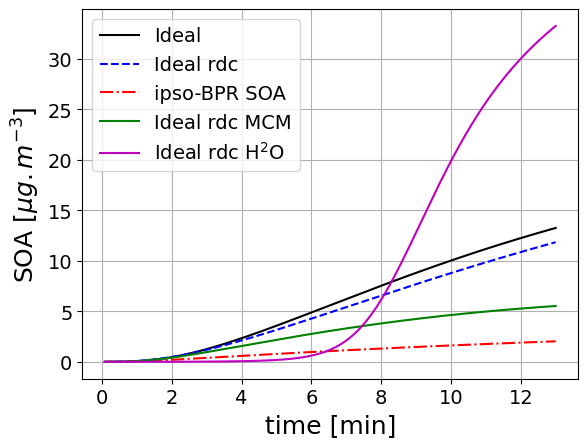
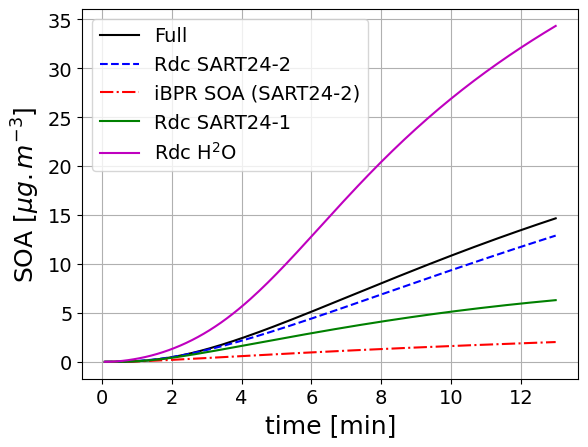
Standardisation of names between individual chemical schemes and test cases

diff --git a/graph/toluene-aft-rdc.py b/graph/toluene-aft-rdc.py
@@ -9,9 +9,9 @@ import numpy, pylab
 plt.ioff()
 ################### input parameters #################################"
 dir1 = '../results/toluene-aft/toluene-aft-ideal/aero/'
-dir2 = '../results/toluene-aft/toluene-aft-ideal-rdc/aero/'
-dir3 = '../results/toluene-aft/toluene-aft-ideal-rdcRm1/aero/'
-dir4 = '../results/toluene-aft/toluene-aft-ideal-rdcH2O/aero/'
+dir2 = '../results/toluene-aft/toluene-aft-ideal-SART24-2/aero/'
+dir3 = '../results/toluene-aft/toluene-aft-ideal-SART24-1/aero/'
+dir4 = '../results/toluene-aft/toluene-aft-ideal-H2O/aero/'
 
 Nt= 156
 #####################################################################
@@ -29,13 +29,13 @@ uniRm1=np.zeros(shape)
 uniH2O=np.zeros(shape)
 
 
-with open (dir1+'Organic.5.txt') as finit :
+with open (dir1+'Organic.txt') as finit :
         string_conc1 = finit.read().splitlines()
         for j in range(Nt) :
                   ide[j] = float(string_conc1[j])
 
 
-with open (dir2+'Organic.5.txt') as finit :
+with open (dir2+'Organic.txt') as finit :
         string_conc1 = finit.read().splitlines()
         for j in range(Nt) :
                   uni[j] = float(string_conc1[j])
@@ -47,12 +47,12 @@ with open (dir2+'PC7H9O9_1.txt') as finit :
                   aio[j] = float(string_conc1[j])
 
 
-with open (dir3+'Organic.5.txt') as finit :
+with open (dir3+'Organic.txt') as finit :
         string_conc1 = finit.read().splitlines()
         for j in range(Nt) :
                   uniRm1[j] = float(string_conc1[j])
 
-with open (dir4+'Organic.5.txt') as finit :
+with open (dir4+'Organic.txt') as finit :
         string_conc = finit.read().splitlines()
         for j in range(Nt) :
                   uniH2O[j] = float(string_conc[j])
@@ -67,11 +67,11 @@ fig = plt.figure()
 fig = plt.figure(1,figsize = (15,15))
 #plt.ylim(0.,30.)
 plt.grid()
-plt.plot(time,ide,'k-',label='Ideal')
-plt.plot(time,uni,'b--',label='Ideal rdc')
-plt.plot(time,aio,'r-.',label='ipso-BPR SOA')
-plt.plot(time,uniRm1,'g-',label='Ideal rdc MCM')
-plt.plot(time,uniH2O,'m-',label='Ideal rdc H$^2$O')
+plt.plot(time,ide,'k-',label='Full')
+plt.plot(time,uni,'b--',label='Rdc SART24-2')
+plt.plot(time,aio,'r-.',label='iBPR SOA (SART24-2)')
+plt.plot(time,uniRm1,'g-',label='Rdc SART24-1')
+plt.plot(time,uniH2O,'m-',label='Rdc H$^2$O')
 plt.ylabel("SOA [$\mu g.m^{-3}$]", fontsize=18)
 plt.xlabel("time [min]", fontsize=18)
 plt.legend(loc=2)
